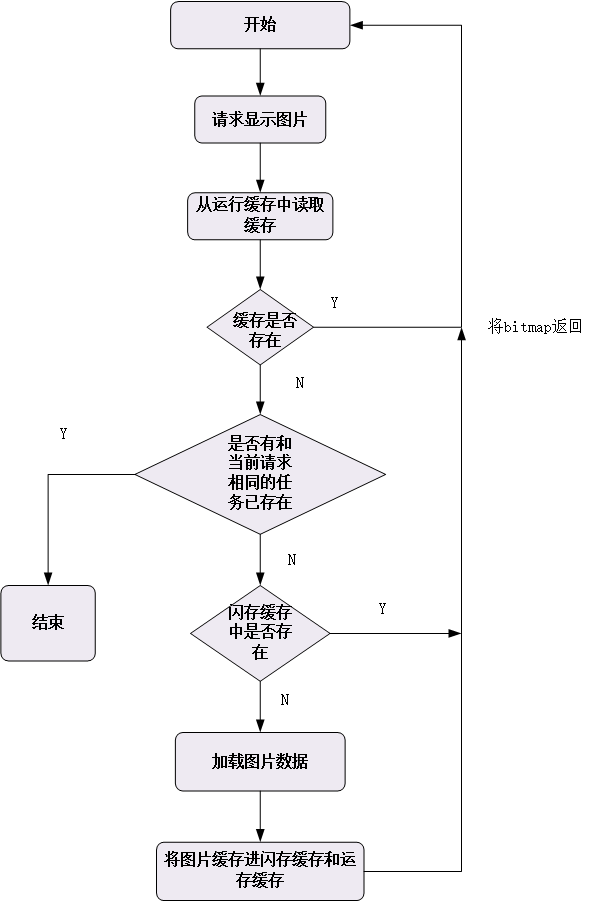
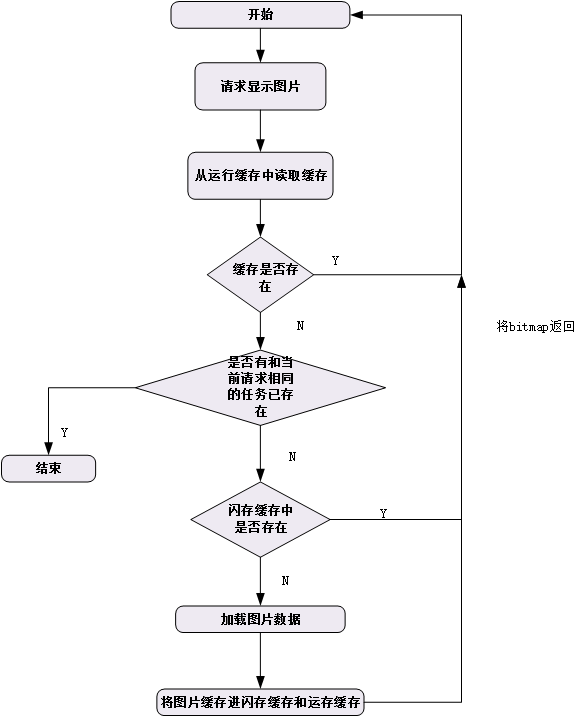
update

diff --git a/xutils/README.md b/xutils/README.md
@@ -273,8 +273,12 @@ public HttpUtils(int connTimeout, String userAgent) {
 ```
 设置图片流程图  
 ![流程图](image/bitmap_sque.png)  
+  
+
+  
+  
 详细流程图  
-![Bitmap详细流程图](image/BitmapSequence.png)
+![Bitmap详细流程图](image/bitmap_de_sque.png)
 #####2.BitmapLoadTask.java  
 加载图片的异步任务。在`doInBackground`中读取图片资源
 
